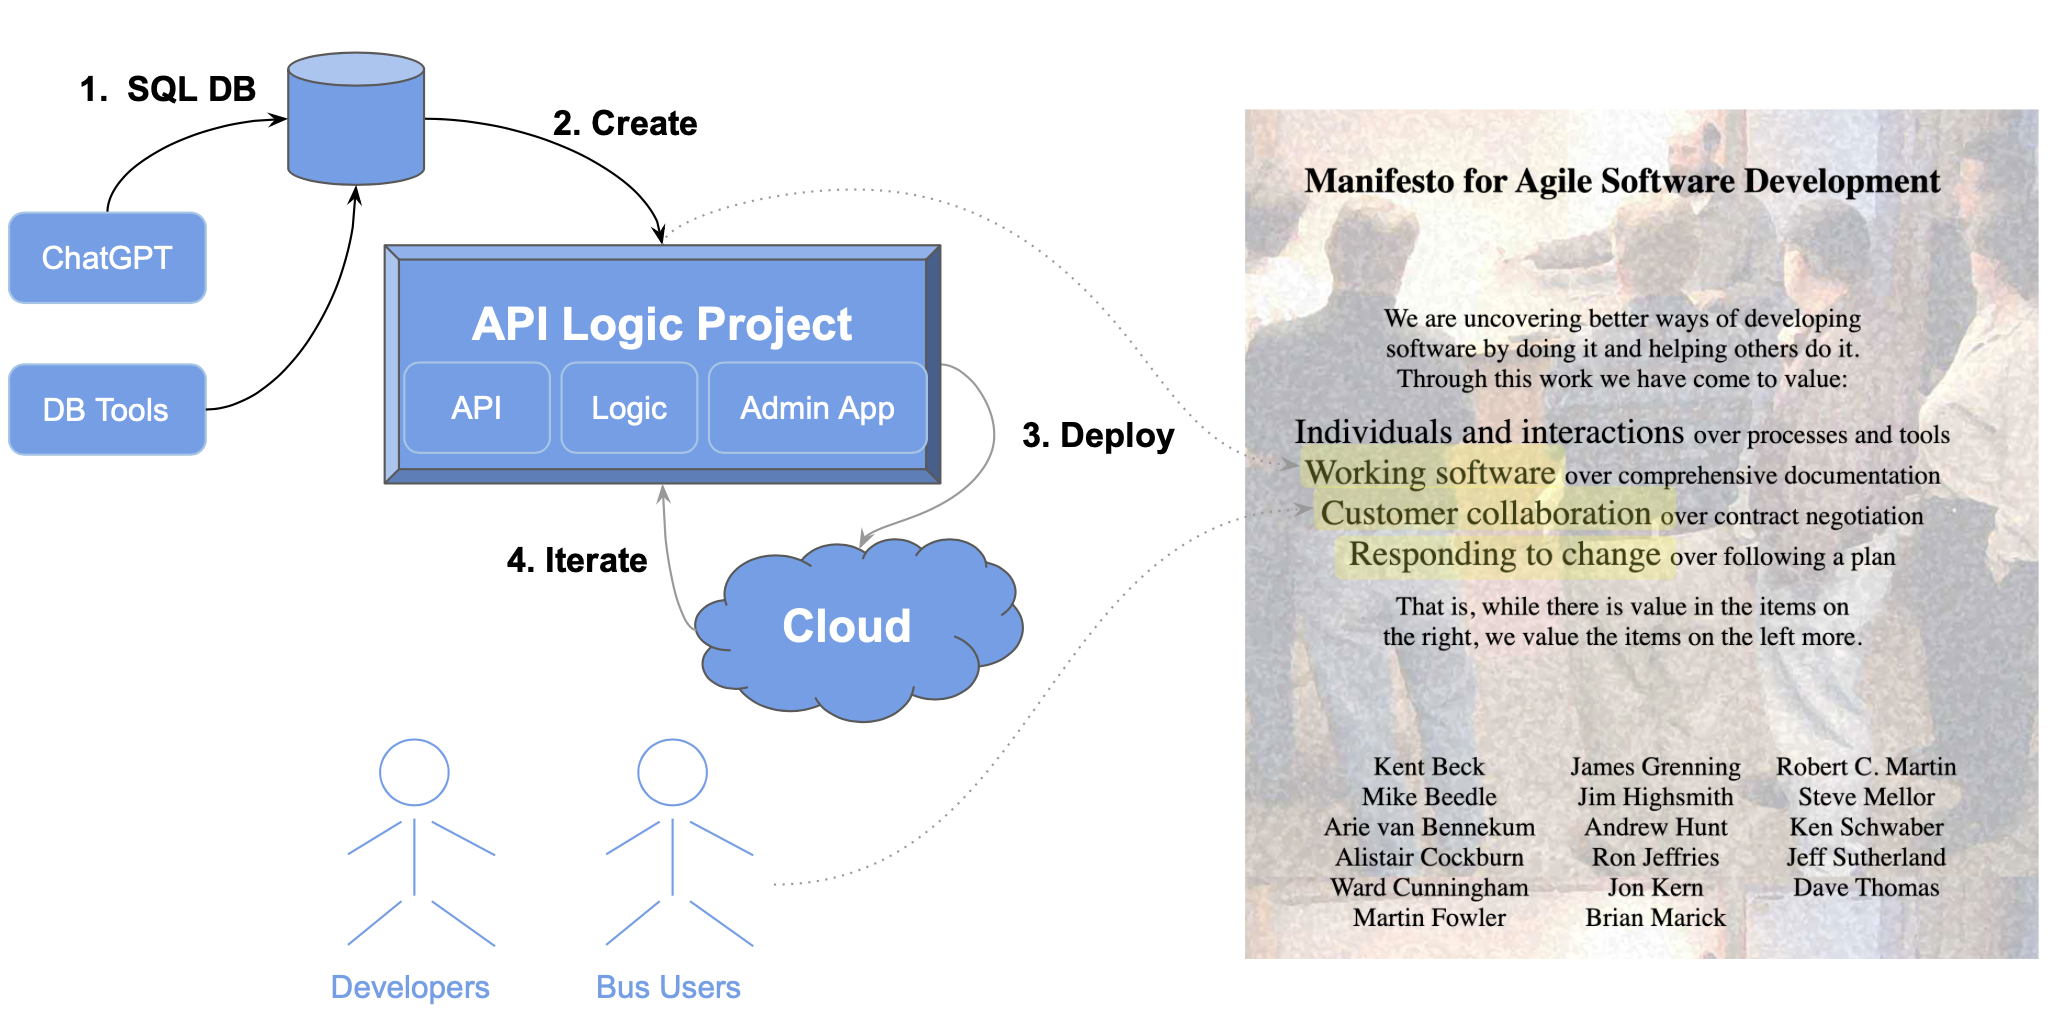
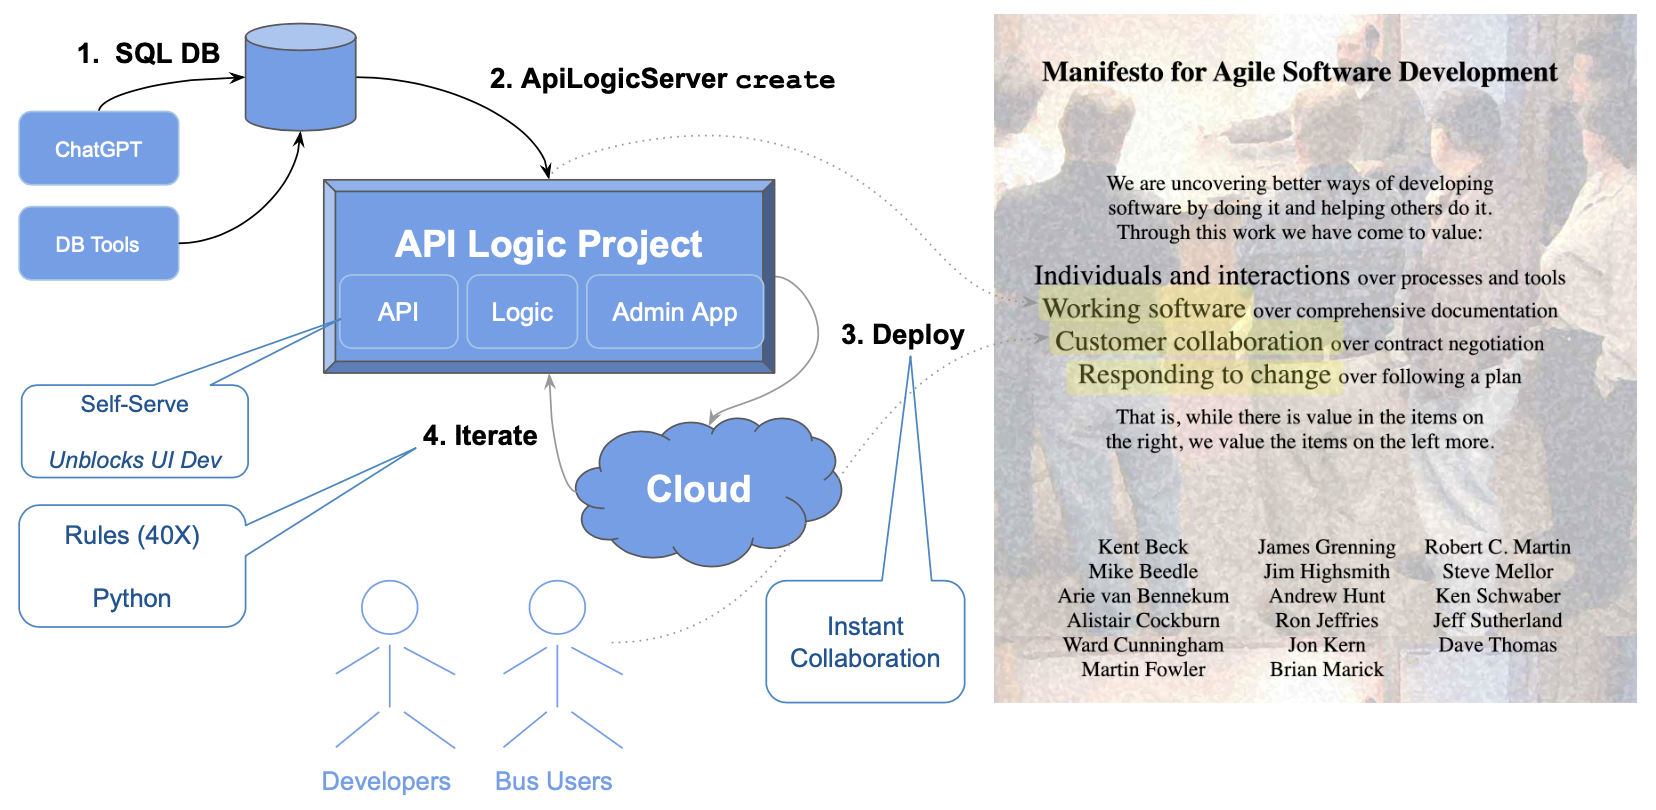
agile automation callouts

diff --git a/docs/Tutorial-Agile.md b/docs/Tutorial-Agile.md
@@ -260,14 +260,14 @@ Use your IDE to merge `/ui/admin/admin-merge.yml` -> `/ui/admin/admin.yml`.`
 **d. Declare logic**
 
 ```python
-   def derive_amount(row: models.Item, old_row: models.Item, logic_row: LogicRow):
-       amount = row.Quantity * row.UnitPrice
-       if row.Product.CarbonNeutral and row.Quantity >= 10:
-           amount = amount * Decimal(0.9)
-       return amount
+    def derive_amount(row: models.Item, old_row: models.Item, logic_row: LogicRow):
+        amount = row.Quantity * row.UnitPrice
+        if row.Product.CarbonNeutral and row.Quantity >= 10:
+            amount = amount * Decimal(0.9)
+        return amount
 
 
-   Rule.formula(derive=models.Item.Amount, calling=derive_amount)
+    Rule.formula(derive=models.Item.Amount, calling=derive_amount)
 ```
 
 &nbsp;
@@ -308,6 +308,6 @@ Note we rebuilt the project from our altered database, without losing customizat
 
 ## Summary
 
-![ai-driven-automation](images/ai-driven-automation/summary.png)
+![ai-driven-automation](images/agile/summary.png)
 
 In 6 minutes, you've used ChatGPT and API Logic Server to convert an idea into working software, deployed for collaboration, and iterated to meet new requirements.
